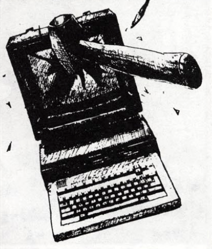
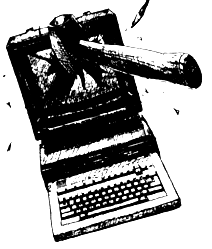
*

diff --git a/site/2024.html b/site/2024.html
@@ -10,11 +10,15 @@
 <h3>18S</h3>
 <article>
 	<h2>2024-09-09 Fractranfooding</h2>
-	<p>These waters are familiar now, with their familiar weather radio voices, tugboats, madronas, lean little swallows, cormorants, banana slugs and extremely bitter IPAs. We wake up and it's still dark out, summer must be slipping away; the sun looks all burnt up, red and angry through in the morning fog. The music aboard changed too, to a more appropriate shoegaze, as if to match the sound of rustling of leaves and wailing gales crashing into the shrouds.</p>
+	<p>We are again in familiar waters, with their familiar weather radio voices, tugboats, madronas, lean little swallows, cormorants, banana slugs and extremely bitter IPAs. We wake up and it's still dark out, summer must be slipping away; the sun looks all burnt up, red and angry against the morning fog. The music changes to a more appropriate shoegaze, as if to match the sound of rustling of leaves and wailing gales crashing into the shrouds.</p>
+	<p>Our renewed connectivity means it's time for the yearly software update ordeal, six months has been enough to fall so far behind, to miss just enough versions that even the part of the program that looks for updates doesn't recognize the new server endpoints. Generally, a few things got worse by updating them, most of them got fucking awful, as it typically goes with software. A friend called it <i>necrotic</i>, because bitrot implies things have been abandoned to wither but all these things are rotting while alive, like necrosis.</p>
 	<ul>
 		<li>Improved my <a href='fractran.html'>Fractran</a> runtime to accommodate for rewrite rules.</li>
-		<li>Enjoyed.</li>
+		<li>Fixed a couple of bugs with the <a href='https://git.sr.ht/~rabbits/uxn-utils/tree/main/item/gui/m291' target='_blank'>little music player</a>.</li>
+		<li>Enjoyed rewatching the whole of Fleabag.</li>
+		<li>Thinking about SV Dakota and its crew.</li>
 	</ul>
+	<img src='../media/refs/smash.png' height='160'/>
 </article>
 
 <h3>18R</h3>

diff --git a/site/now.html b/site/now.html
@@ -29,11 +29,15 @@
 <h3>18S</h3>
 <article>
 	<h2>2024-09-09 Fractranfooding</h2>
-	<p>These waters are familiar now, with their familiar weather radio voices, tugboats, madronas, lean little swallows, cormorants, banana slugs and extremely bitter IPAs. We wake up and it's still dark out, summer must be slipping away; the sun looks all burnt up, red and angry through in the morning fog. The music aboard changed too, to a more appropriate shoegaze, as if to match the sound of rustling of leaves and wailing gales crashing into the shrouds.</p>
+	<p>We are again in familiar waters, with their familiar weather radio voices, tugboats, madronas, lean little swallows, cormorants, banana slugs and extremely bitter IPAs. We wake up and it's still dark out, summer must be slipping away; the sun looks all burnt up, red and angry against the morning fog. The music changes to a more appropriate shoegaze, as if to match the sound of rustling of leaves and wailing gales crashing into the shrouds.</p>
+	<p>Our renewed connectivity means it's time for the yearly software update ordeal, six months has been enough to fall so far behind, to miss just enough versions that even the part of the program that looks for updates doesn't recognize the new server endpoints. Generally, a few things got worse by updating them, most of them got fucking awful, as it typically goes with software. A friend called it <i>necrotic</i>, because bitrot implies things have been abandoned to wither but all these things are rotting while alive, like necrosis.</p>
 	<ul>
 		<li>Improved my <a href='fractran.html'>Fractran</a> runtime to accommodate for rewrite rules.</li>
-		<li>Enjoyed.</li>
+		<li>Fixed a couple of bugs with the <a href='https://git.sr.ht/~rabbits/uxn-utils/tree/main/item/gui/m291' target='_blank'>little music player</a>.</li>
+		<li>Enjoyed rewatching the whole of Fleabag.</li>
+		<li>Thinking about SV Dakota and its crew.</li>
 	</ul>
+	<img src='../media/refs/smash.png' height='160'/>
 </article>
 
 <h3>18R</h3>

diff --git a/src/htm/2024.htm b/src/htm/2024.htm
@@ -3,11 +3,15 @@
 <h3>18S</h3>
 <article>
 	<h2>2024-09-09 Fractranfooding</h2>
-	<p>These waters are familiar now, with their familiar weather radio voices, tugboats, madronas, lean little swallows, cormorants, banana slugs and extremely bitter IPAs. We wake up and it's still dark out, summer must be slipping away; the sun looks all burnt up, red and angry through in the morning fog. The music aboard changed too, to a more appropriate shoegaze, as if to match the sound of rustling of leaves and wailing gales crashing into the shrouds.</p>
+	<p>We are again in familiar waters, with their familiar weather radio voices, tugboats, madronas, lean little swallows, cormorants, banana slugs and extremely bitter IPAs. We wake up and it's still dark out, summer must be slipping away; the sun looks all burnt up, red and angry against the morning fog. The music changes to a more appropriate shoegaze, as if to match the sound of rustling of leaves and wailing gales crashing into the shrouds.</p>
+	<p>Our renewed connectivity means it's time for the yearly software update ordeal, six months has been enough to fall so far behind, to miss just enough versions that even the part of the program that looks for updates doesn't recognize the new server endpoints. Generally, a few things got worse by updating them, most of them got fucking awful, as it typically goes with software. A friend called it <i>necrotic</i>, because bitrot implies things have been abandoned to wither but all these things are rotting while alive, like necrosis.</p>
 	<ul>
 		<li>Improved my <a href='fractran.html'>Fractran</a> runtime to accommodate for rewrite rules.</li>
-		<li>Enjoyed.</li>
+		<li>Fixed a couple of bugs with the <a href='https://git.sr.ht/~rabbits/uxn-utils/tree/main/item/gui/m291' target='_blank'>little music player</a>.</li>
+		<li>Enjoyed rewatching the whole of Fleabag.</li>
+		<li>Thinking about SV Dakota and its crew.</li>
 	</ul>
+	<img src='../media/refs/smash.png' height='160'/>
 </article>
 
 <h3>18R</h3>
